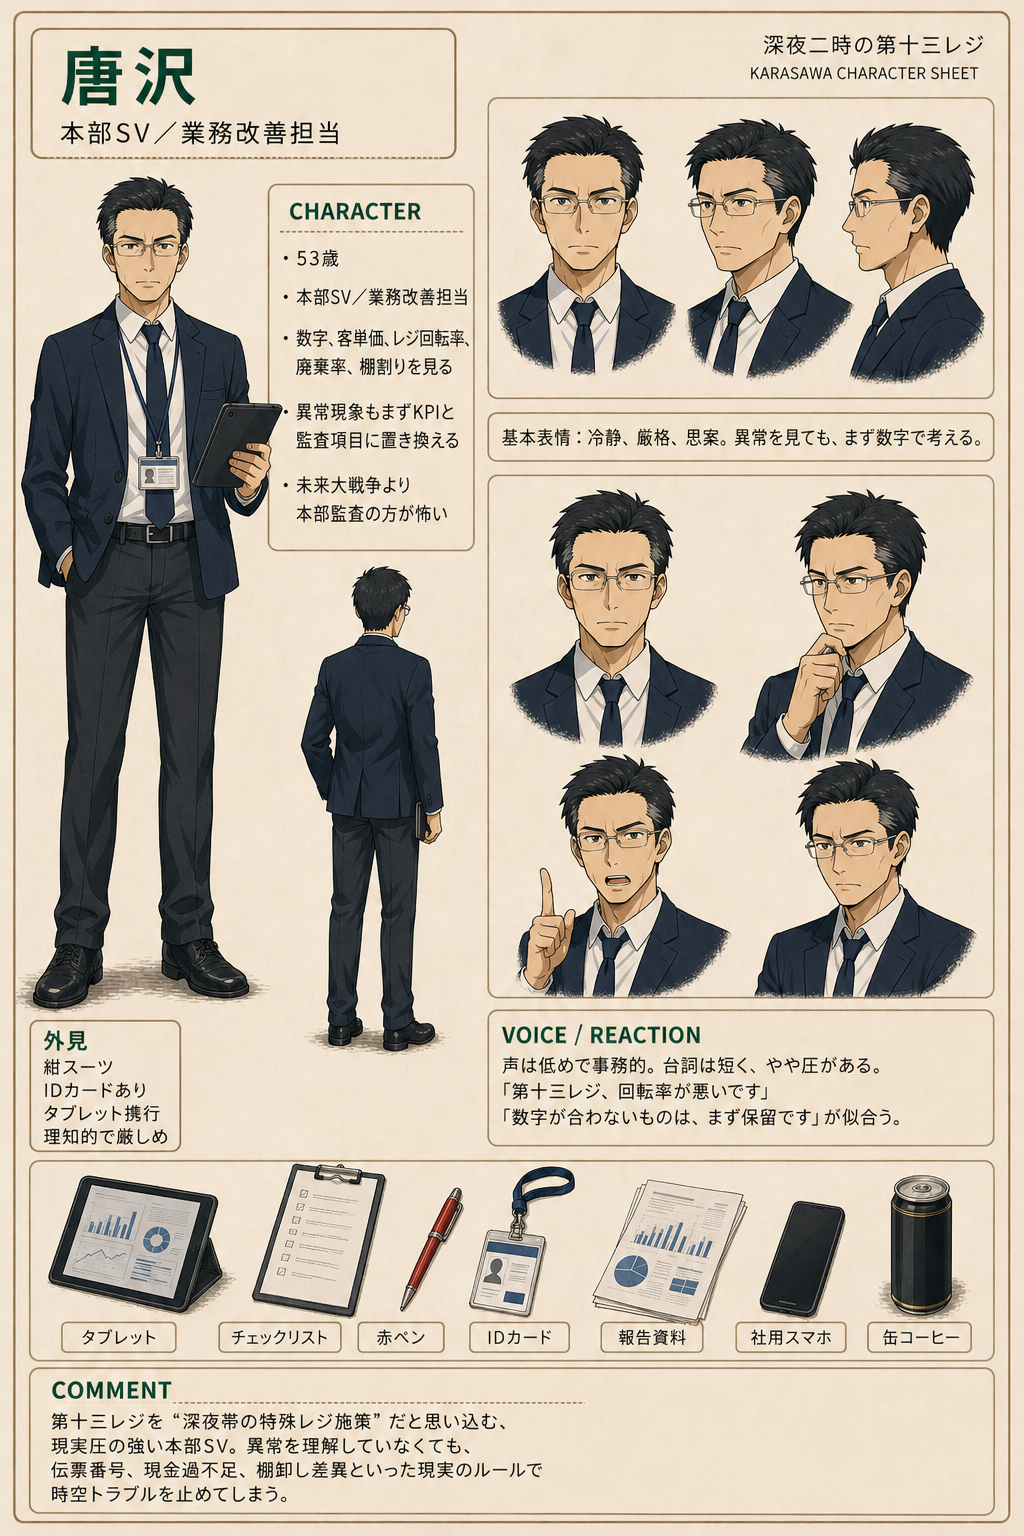
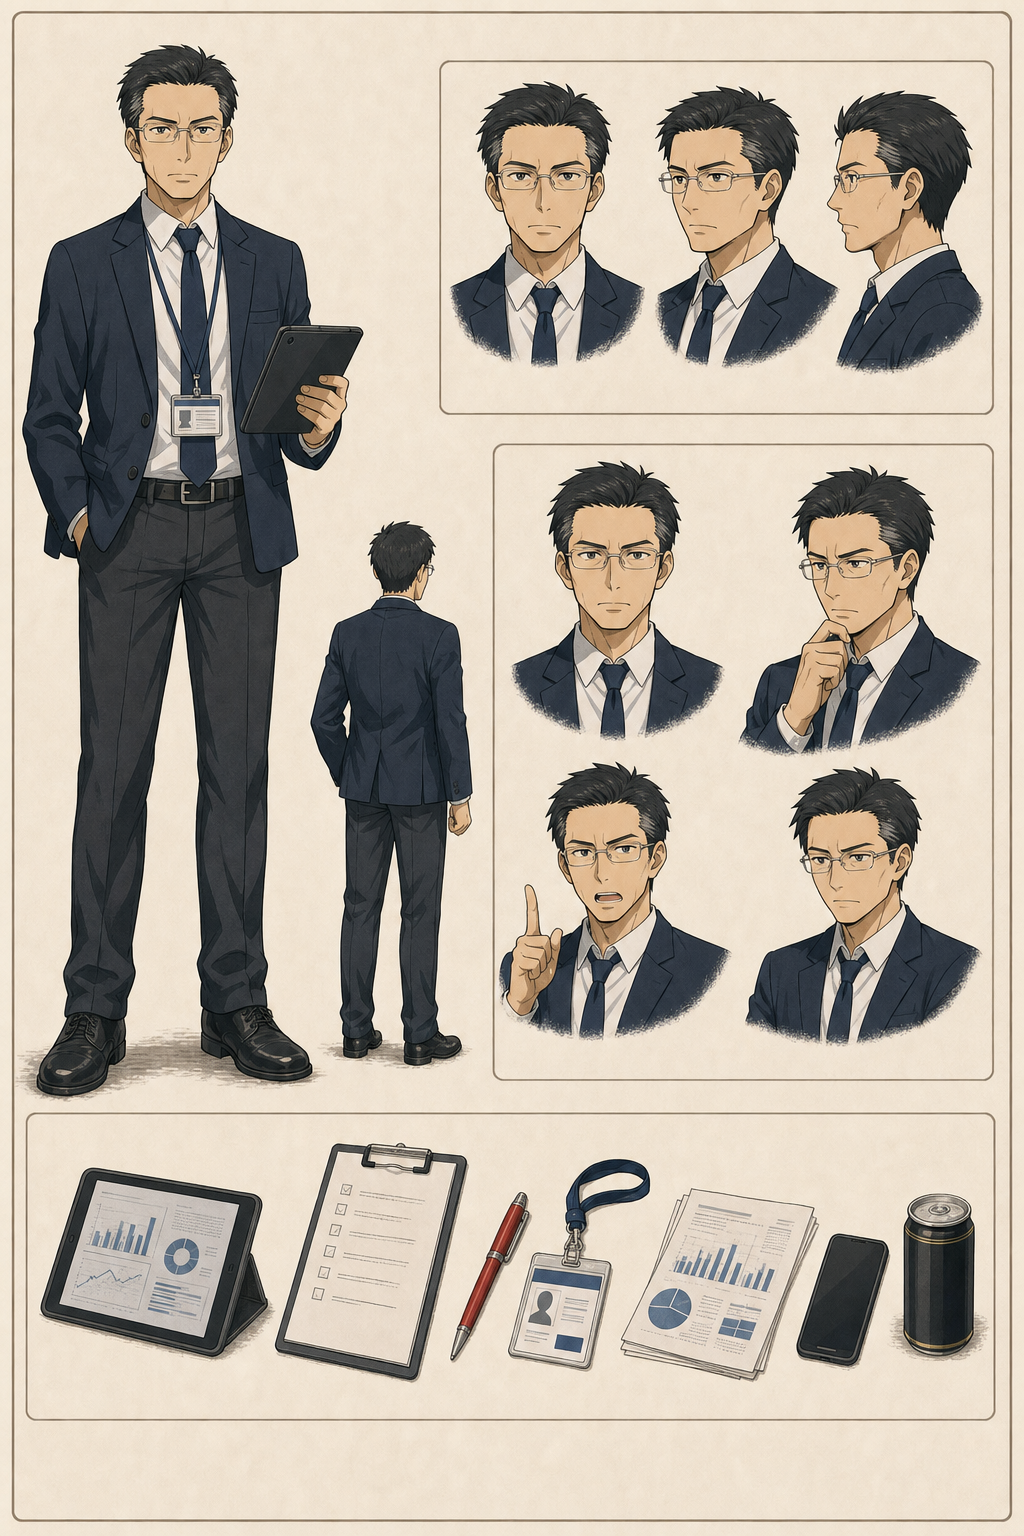
唐沢栄治を眼鏡ありに確定＋前版シートを復元(Ver1.7)
ユーザー意図(前の設定画=眼鏡ありの方が良い)に合わせ訂正:
- karasawa_eiji_sheet.png を前版(眼鏡あり, d5193d3)へ復元(両系統)。
- character_reference.json/マスタープロンプト/CSVを「細い銀縁メガネ」に統一。
- 画像はキャッシュバスト ?v=glasses を付与。統合版Ver1.7。

diff --git a/anime-github-project/docs/DESIGN_BIBLE_Ver1.7.md b/anime-github-project/docs/DESIGN_BIBLE_Ver1.7.md
@@ -1,8 +1,8 @@
-# 深夜二時の第十三レジ デザインバイブル Ver.1.6
+# 深夜二時の第十三レジ デザインバイブル Ver.1.7
 
 本書は『深夜二時の第十三レジ』の**全固定設定を1冊にまとめた統合版**です。作品全12話を通して全要素を統一すること。
 
-- バージョン: **Ver.1.6**（2026-06-26）。唐沢栄治を「眼鏡無し」に戻し、Codex更新のキャラ表(character_reference.json)と一致。
+- バージョン: **Ver.1.7**（2026-06-26）。唐沢栄治を「細い銀縁メガネ（眼鏡あり）」に確定（前の設定画＝眼鏡あり版を採用、シート画像も復元）。
 - モジュール版（編集用の原本）: `docs/` 配下の各ファイル。
 
 ## 目次
@@ -651,7 +651,7 @@
 ### 顔（固定）
 
 - 面長／黒い瞳／**落ち着いた鋭い目**／真面目な会社員顔
-- **眼鏡無し**／髭無し。
+- **細い銀縁メガネ**（固定）／髭無し。
 
 ### 髪（固定）
 

diff --git a/anime-github-project/docs/characters/README.md b/anime-github-project/docs/characters/README.md
@@ -2,7 +2,7 @@
 
 各キャラクターの**全話・全カット共通の固定設定**。画像生成・作画時はこの設定を必ず守り、表情・視線・ポーズ・手の動きだけを変えて、キャラクターデザイン（顔・髪型・輪郭・目・体格・制服・年齢感）は変更しないこと。
 
-**統合版（1冊）→ [`../DESIGN_BIBLE_Ver1.6.md`](../DESIGN_BIBLE_Ver1.6.md)**
+**統合版（1冊）→ [`../DESIGN_BIBLE_Ver1.7.md`](../DESIGN_BIBLE_Ver1.7.md)**
 **作品全体の共通固定設定（デザインバイブル）→ [`../DESIGN_BIBLE.md`](../DESIGN_BIBLE.md)**
 **全キャラ共通の固定ルール → [`COMMON_RULES.md`](COMMON_RULES.md)**
 **音声キャスト → [`VOICE_CAST.md`](VOICE_CAST.md)** ／ **映像・字幕仕様 → [`../PRODUCTION_SPEC.md`](../PRODUCTION_SPEC.md)** ／ **12話構成 → [`../EPISODES.md`](../EPISODES.md)**

diff --git a/anime-github-project/PROJECT.md b/anime-github-project/PROJECT.md
@@ -1,6 +1,6 @@
 # PROJECT: 第十三レジ Anime / Kamishibai Project
 
-> **📖 統合版（1冊）: [`docs/DESIGN_BIBLE_Ver1.6.md`](docs/DESIGN_BIBLE_Ver1.6.md)** — 全固定設定（世界観＋映像/字幕＋音声キャスト＋キャラ11＋舞台・設備＋12話構成）を1ファイルにまとめた読み物版。
+> **📖 統合版（1冊）: [`docs/DESIGN_BIBLE_Ver1.7.md`](docs/DESIGN_BIBLE_Ver1.7.md)** — 全固定設定（世界観＋映像/字幕＋音声キャスト＋キャラ11＋舞台・設備＋12話構成）を1ファイルにまとめた読み物版。
 > **共通固定設定（モジュール原本・最上位ルール）: [`docs/DESIGN_BIBLE.md`](docs/DESIGN_BIBLE.md)**
 > 世界観・店舗・外観・ライティング・カメラ・画風・レシート・未来商品・演出・音・時間ルール・演技・禁止事項を一括固定。
 

diff --git a/anime-github-project/docs/characters/karasawa/MASTER_PROMPT.md b/anime-github-project/docs/characters/karasawa/MASTER_PROMPT.md
@@ -15,7 +15,7 @@
 ## 顔（固定）
 
 - 面長／黒い瞳／**落ち着いた鋭い目**／真面目な会社員顔
-- **眼鏡無し**／髭無し。
+- **細い銀縁メガネ**（固定）／髭無し。
 
 ## 髪（固定）
 
